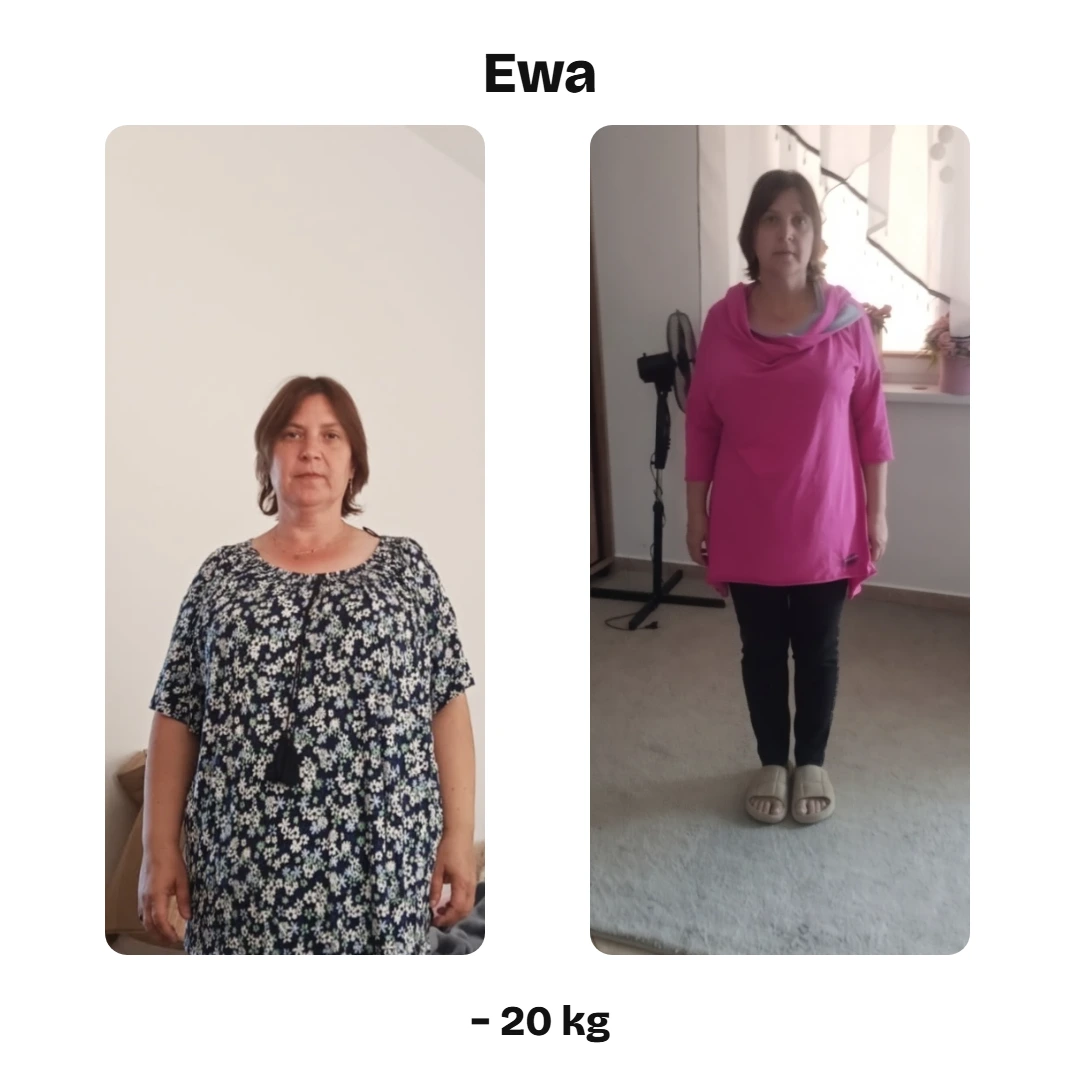
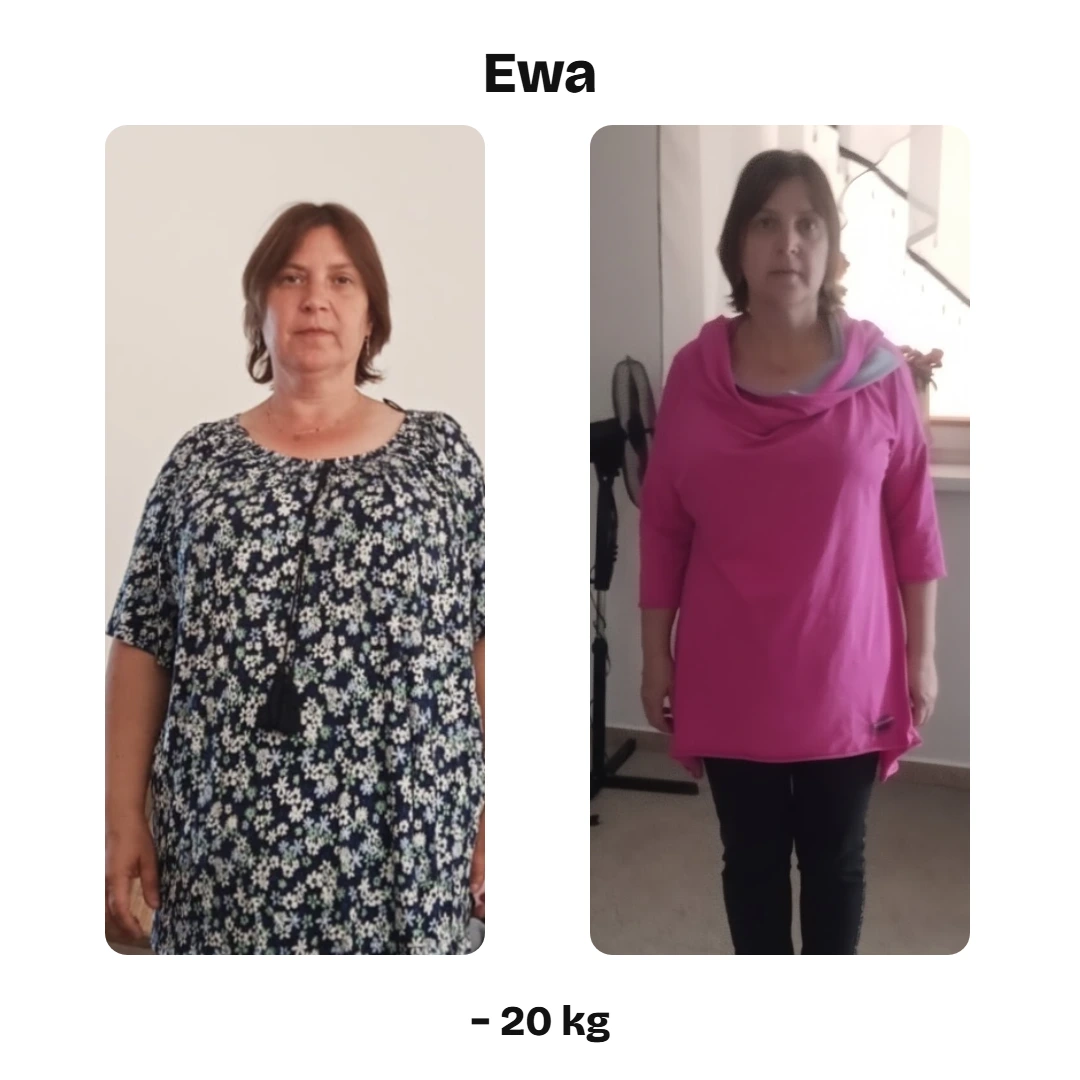
Metamorfoza Ewy: wyrównane sylwetki w obu kadrach
Na pierwszej wersji postać na zdjęciu „przed" była niżej i w innej skali
niż na „po" — zestawienie nie czytało się jako porównanie.

- „przed": wycięta pusta ściana nad głową (zoom 1,30)
- „po": przybliżenie dobrane z pomiaru wysokości głowy na podglądzie
  (253 px → 141 px, czyli zoom 1,84) i wyrównanie pionowe, tak by głowa
  zaczynała się w tym samym miejscu kadru
- oba kadry pokazują teraz ten sam fragment sylwetki (głowa → uda)
- cache-bust ?v=2 przy obrazku, bo poprzednia wersja pliku jest już
  na serwerze pod tą samą nazwą

diff --git a/index.html b/index.html
@@ -606,7 +606,7 @@ body>header:has(nav.pnav.past-hero){
       <div class="meta-slide"><img decoding="async" width="1080" height="1080" src="/img/pawel-odchudzanie-dietetyk-torun-15kg-5miesiecy.webp" alt="Paweł — metamorfoza: 15 kg w 5 miesięcy, dietetyk Toruń" loading="lazy"></div>
       <div class="meta-slide"><img decoding="async" width="1080" height="1080" src="/img/wiktoria-odchudzanie-dietetyk-torun-33kg-10miesiecy.webp" alt="Wiktoria — metamorfoza: 33 kg w 10 miesięcy, dietetyk Toruń" loading="lazy"></div>
       <div class="meta-slide"><img decoding="async" width="1080" height="1080" src="/img/piotr-odchudzanie-dietetyk-torun-50kg-14miesiecy.webp" alt="Piotr — metamorfoza: 50 kg w 14 miesięcy, dietetyk Toruń" loading="lazy"></div>
-      <div class="meta-slide"><img decoding="async" width="1080" height="1080" src="/img/ewa-odchudzanie-dietetyk-torun-20kg.webp" alt="Ewa — metamorfoza: 20 kg mniej, dietetyk Toruń" loading="lazy"></div>
+      <div class="meta-slide"><img decoding="async" width="1080" height="1080" src="/img/ewa-odchudzanie-dietetyk-torun-20kg.webp?v=2" alt="Ewa — metamorfoza: 20 kg mniej, dietetyk Toruń" loading="lazy"></div>
     </div>
   </div>
   <div class="meta-btns">
